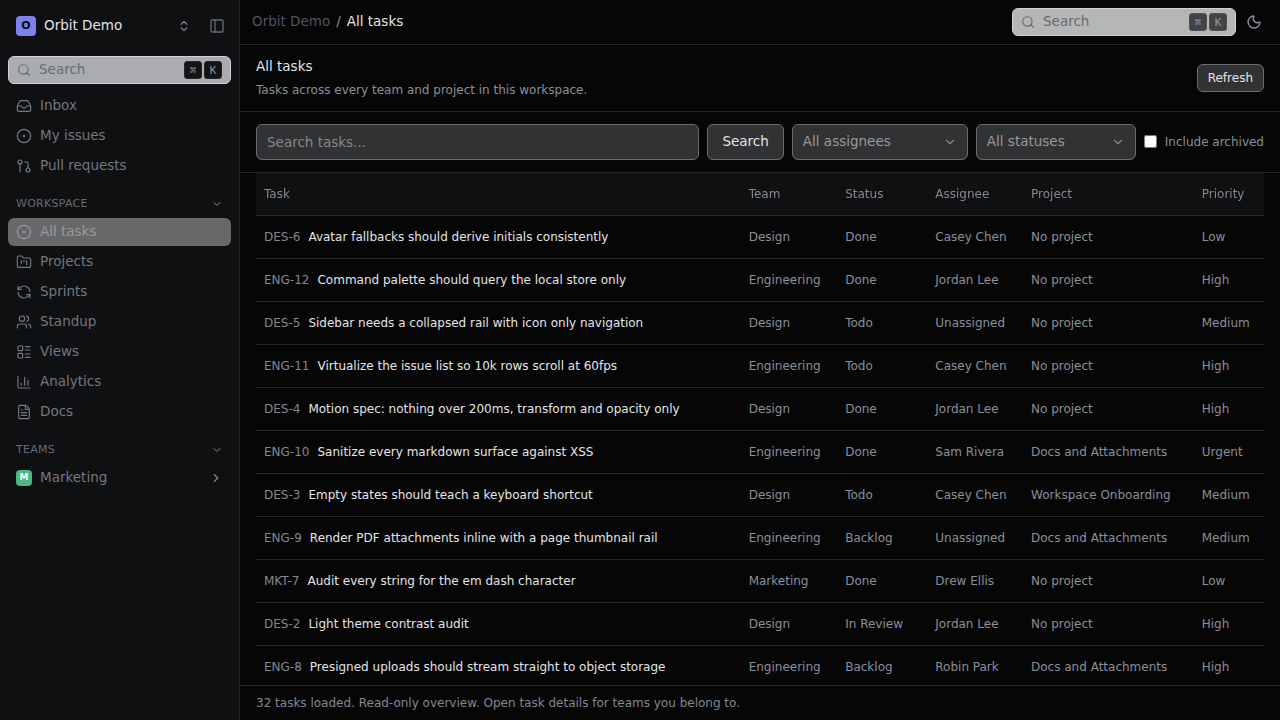
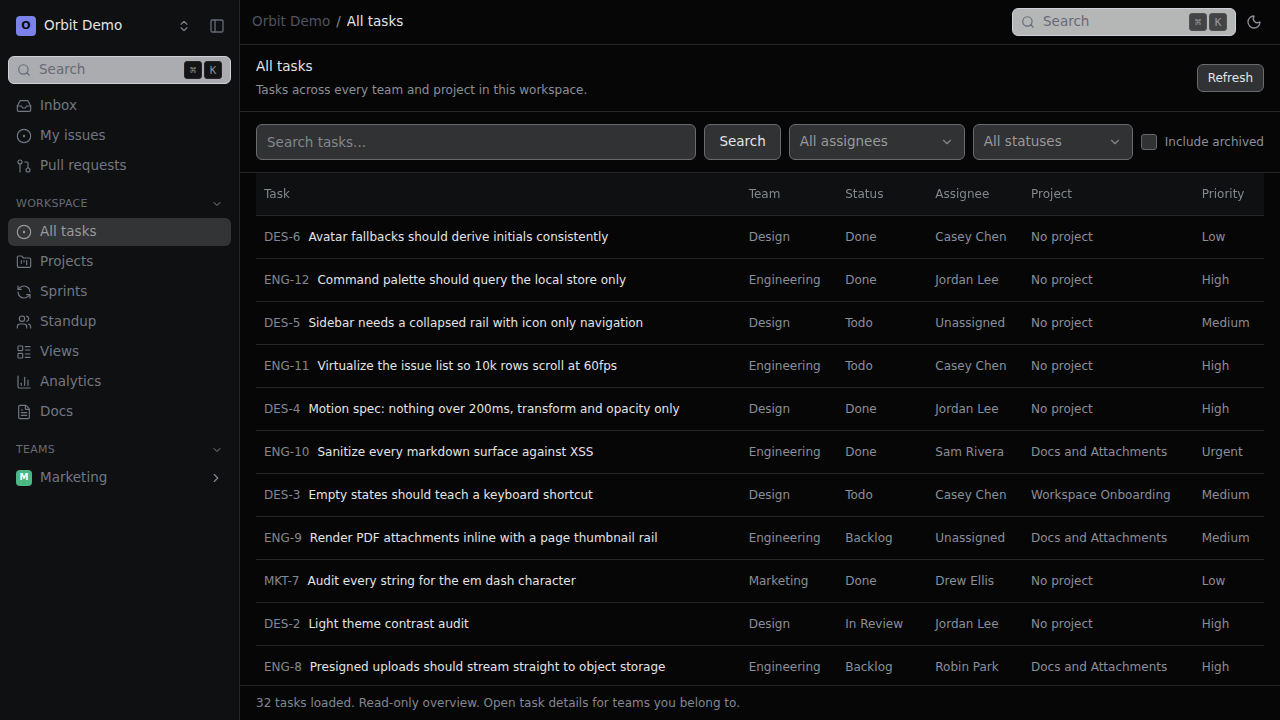
fix(issues): tighten task overview validation and coverage

diff --git a/packages/core/src/work/workspace-tasks-service.ts b/packages/core/src/work/workspace-tasks-service.ts
@@ -3,7 +3,7 @@ import { validationFailed } from '@orbit/shared/errors';
 import type { Principal } from '@orbit/shared/policy';
 import { assertCan, isInTeam } from '@orbit/shared/policy';
 import { issueFilterSchema, workspaceTasksQuerySchema } from '@orbit/shared/validators';
-import { z } from 'zod';
+import { ZodError, z } from 'zod';
 import { buildIssueWhere } from './issue-query.ts';
 
 const cursorSchema = z.tuple([z.string().datetime(), z.string().uuid()]);
@@ -16,13 +16,25 @@ function decodeCursor(cursor: string): [string, string] {
   }
 }
 
+function parseFilters(input: unknown) {
+  try {
+    const query = workspaceTasksQuerySchema.parse(input);
+    return { query, filter: issueFilterSchema.parse({ ...query, query: undefined }) };
+  } catch (cause) {
+    if (cause instanceof ZodError) {
+      throw validationFailed('Those workspace task filters are not valid.', { cause });
+    }
+    throw cause;
+  }
+}
+
 export async function listWorkspaceTasks(principal: Principal, input: unknown = {}) {
   assertCan(principal, 'issue:read:workspace');
-  const query = workspaceTasksQuerySchema.parse(input);
+  const { query, filter } = parseFilters(input);
   const filters = [
     buildIssueWhere(principal, {
       visibility: 'workspace-tasks',
-      filter: issueFilterSchema.parse({ ...query, query: undefined }),
+      filter,
       now: new Date(),
     }),
   ];

diff --git a/apps/web/e2e/all-tasks.spec.ts b/apps/web/e2e/all-tasks.spec.ts
@@ -58,6 +58,15 @@ test('a member sees other teams in All tasks and can search and filter them', as
   await page.getByRole('combobox', { name: 'Filter by status' }).click();
   await page.getByRole('option', { name: 'Completed', exact: true }).click();
   await expect(page.getByRole('combobox', { name: 'Filter by status' })).toContainText('Completed');
+  const completed = tasks.filter((task) => task.assignee === 'Jordan Lee' && task.state === 'Done');
+  expect(completed.length).toBeGreaterThan(0);
+  await expect(table.locator('tbody tr')).toHaveCount(completed.length);
+  for (const row of await table.locator('tbody tr').all()) {
+    await expect(row.getByRole('cell', { name: 'Done', exact: true })).toBeVisible();
+  }
+  expect((await page.request.get(`${BASE}/api/workspace-tasks?limit=201`)).status()).toBe(422);
+  await page.getByRole('checkbox', { name: 'Include archived' }).check();
+  await expect(page.getByRole('checkbox', { name: 'Include archived' })).toBeChecked();
   await page.setViewportSize({ width: 390, height: 844 });
   await expect(page.getByRole('heading', { name: 'All tasks' })).toBeVisible();
   expect(await page.evaluate(() => document.documentElement.scrollWidth <= window.innerWidth)).toBe(

diff --git a/apps/web/src/features/issues/all-tasks-view.tsx b/apps/web/src/features/issues/all-tasks-view.tsx
@@ -12,6 +12,7 @@ import { useInfiniteQuery } from '@tanstack/react-query';
 import Link from 'next/link';
 import { useState } from 'react';
 import { Button } from '@/components/ui/button.tsx';
+import { Checkbox } from '@/components/ui/checkbox.tsx';
 import { Input } from '@/components/ui/input.tsx';
 import {
   Select,
@@ -116,11 +117,14 @@ export function AllTasksView({ organizationId }: { readonly organizationId: stri
             ))}
           </SelectContent>
         </Select>
-        <label className="flex items-center gap-2 text-muted text-xs">
-          <input
-            type="checkbox"
+        <label
+          htmlFor="all-tasks-include-archived"
+          className="flex items-center gap-2 text-muted text-xs"
+        >
+          <Checkbox
+            id="all-tasks-include-archived"
             checked={includeArchived}
-            onChange={(event) => setIncludeArchived(event.target.checked)}
+            onCheckedChange={(checked) => setIncludeArchived(checked === true)}
           />
           Include archived
         </label>

diff --git a/packages/shared/tests/validators/workspace-tasks.test.ts b/packages/shared/tests/validators/workspace-tasks.test.ts
@@ -1,0 +1,17 @@
+import { describe, expect, it } from 'bun:test';
+import { workspaceTaskSchema } from '../../src/validators/workspace-tasks.ts';
+
+const taskPrioritySchema = workspaceTaskSchema.pick({ priority: true });
+
+describe('workspace task response priorities', () => {
+  it('accepts every supported priority', () => {
+    for (const priority of [0, 1, 2, 3, 4]) {
+      expect(taskPrioritySchema.safeParse({ priority }).success).toBe(true);
+    }
+  });
+  it('rejects unsupported priority values instead of presenting them as none', () => {
+    for (const priority of [-1, 5, 1.5, Number.NaN]) {
+      expect(taskPrioritySchema.safeParse({ priority }).success).toBe(false);
+    }
+  });
+});

diff --git a/packages/shared/src/validators/workspace-tasks.ts b/packages/shared/src/validators/workspace-tasks.ts
@@ -1,7 +1,7 @@
 import { z } from 'zod';
 import { STATE_CATEGORIES } from '../constants/index.ts';
 import { idSchema, paginationSchema } from './common.ts';
-import { booleanFlag } from './issue.ts';
+import { booleanFlag, prioritySchema } from './issue.ts';
 
 export const workspaceTasksQuerySchema = z.object({
   query: z.string().trim().max(200).optional(),
@@ -19,7 +19,7 @@ export const workspaceTaskSchema = z.object({
   state: z.string(),
   assignee: z.string().nullable(),
   project: z.string().nullable(),
-  priority: z.number(),
+  priority: prioritySchema,
   updatedAt: z.string(),
   canOpen: z.boolean(),
 });

diff --git a/apps/web/src/app/api/workspace-tasks/route.ts b/apps/web/src/app/api/workspace-tasks/route.ts
@@ -1,8 +1,10 @@
 import { listWorkspaceTasks } from '@orbit/core';
+import { workspaceTasksQuerySchema } from '@orbit/shared/validators';
 import { handle, searchParamsOf } from '@/lib/api/handler.ts';
 
 export async function GET(request: Request): Promise<Response> {
-  return await handle(
-    async (principal) => await listWorkspaceTasks(principal, searchParamsOf(request)),
-  );
+  return await handle(async (principal) => {
+    const query = workspaceTasksQuerySchema.parse(searchParamsOf(request));
+    return await listWorkspaceTasks(principal, query);
+  });
 }

diff --git a/packages/core/tests/work/workspace-tasks-service.test.ts b/packages/core/tests/work/workspace-tasks-service.test.ts
@@ -117,9 +117,11 @@ describe('workspace task overview', () => {
         DomainError,
       );
     }
-    await expect(listWorkspaceTasks(workspace.admin, { limit: 201 })).rejects.toThrow();
+    await expect(listWorkspaceTasks(workspace.admin, { limit: 201 })).rejects.toBeInstanceOf(
+      DomainError,
+    );
     await expect(
       listWorkspaceTasks(workspace.admin, { stateCategory: 'invalid' }),
-    ).rejects.toThrow();
+    ).rejects.toBeInstanceOf(DomainError);
   });
 });
